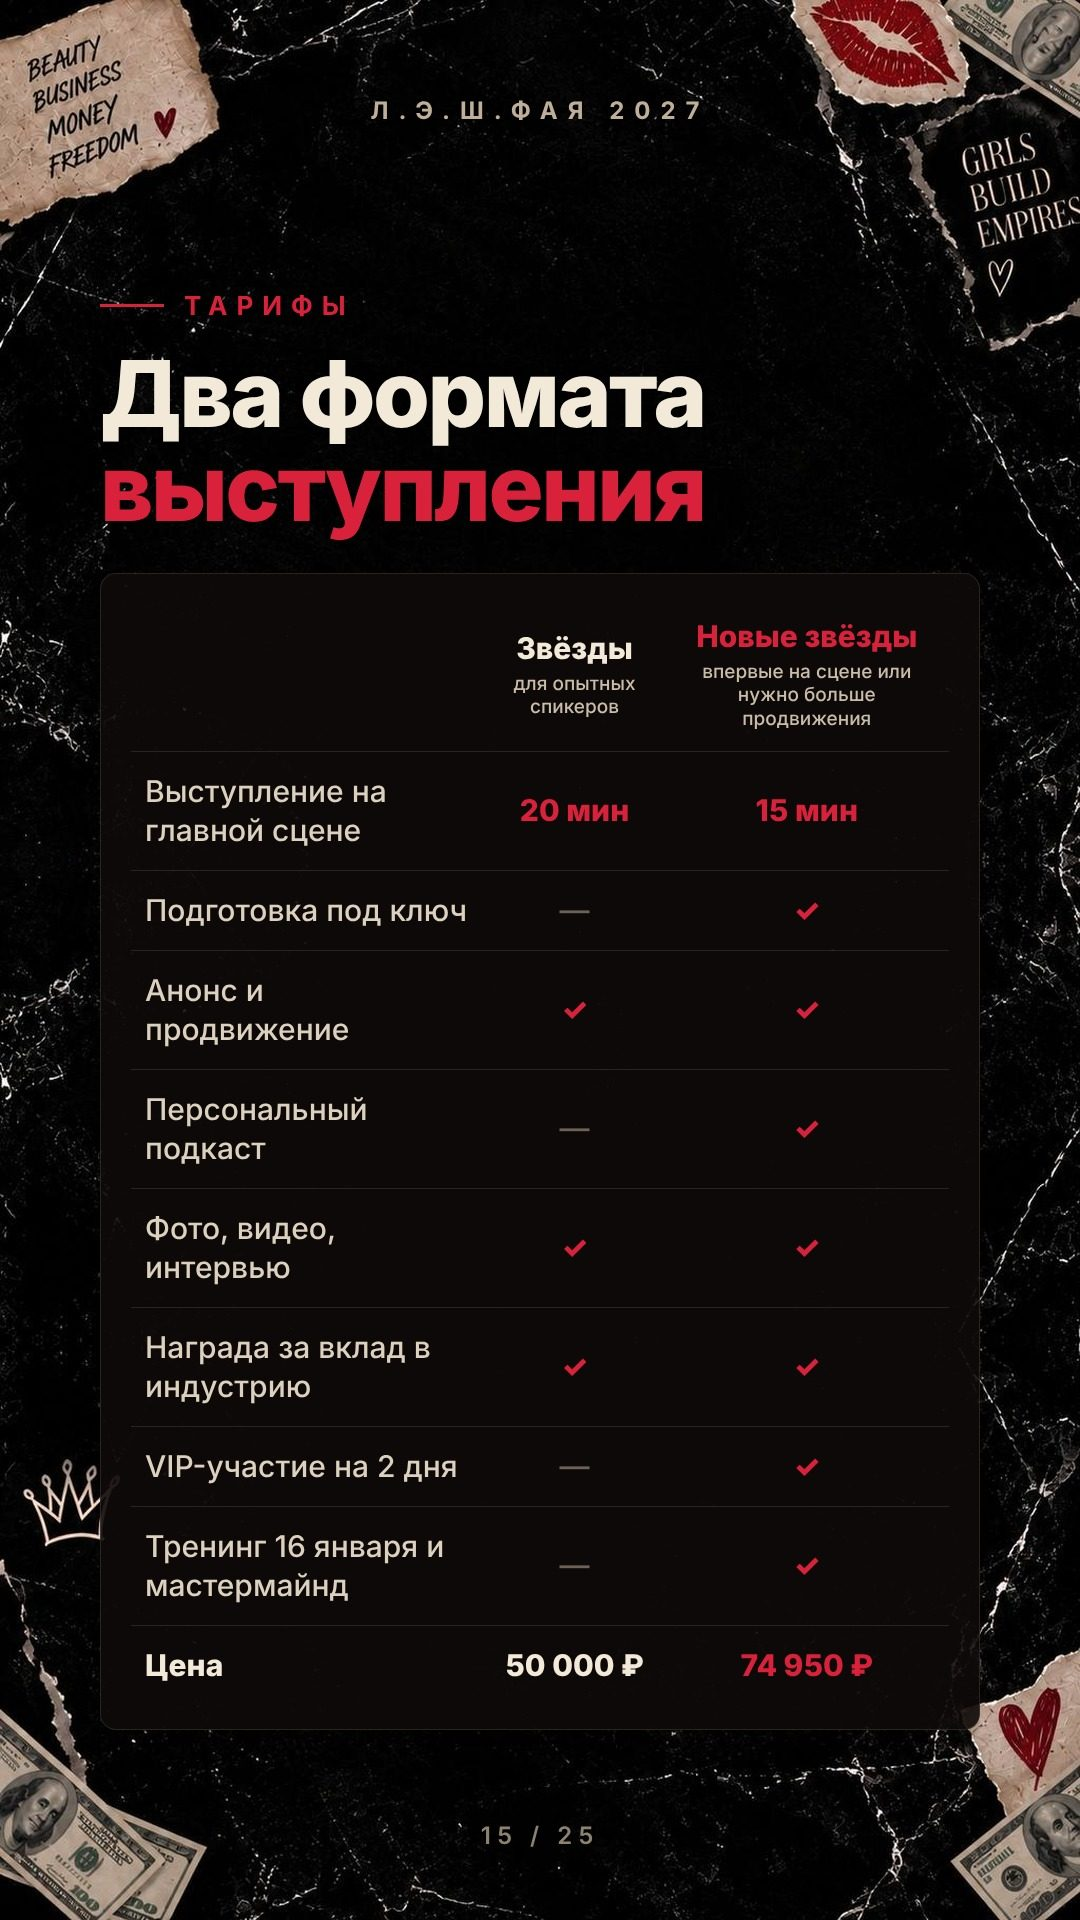
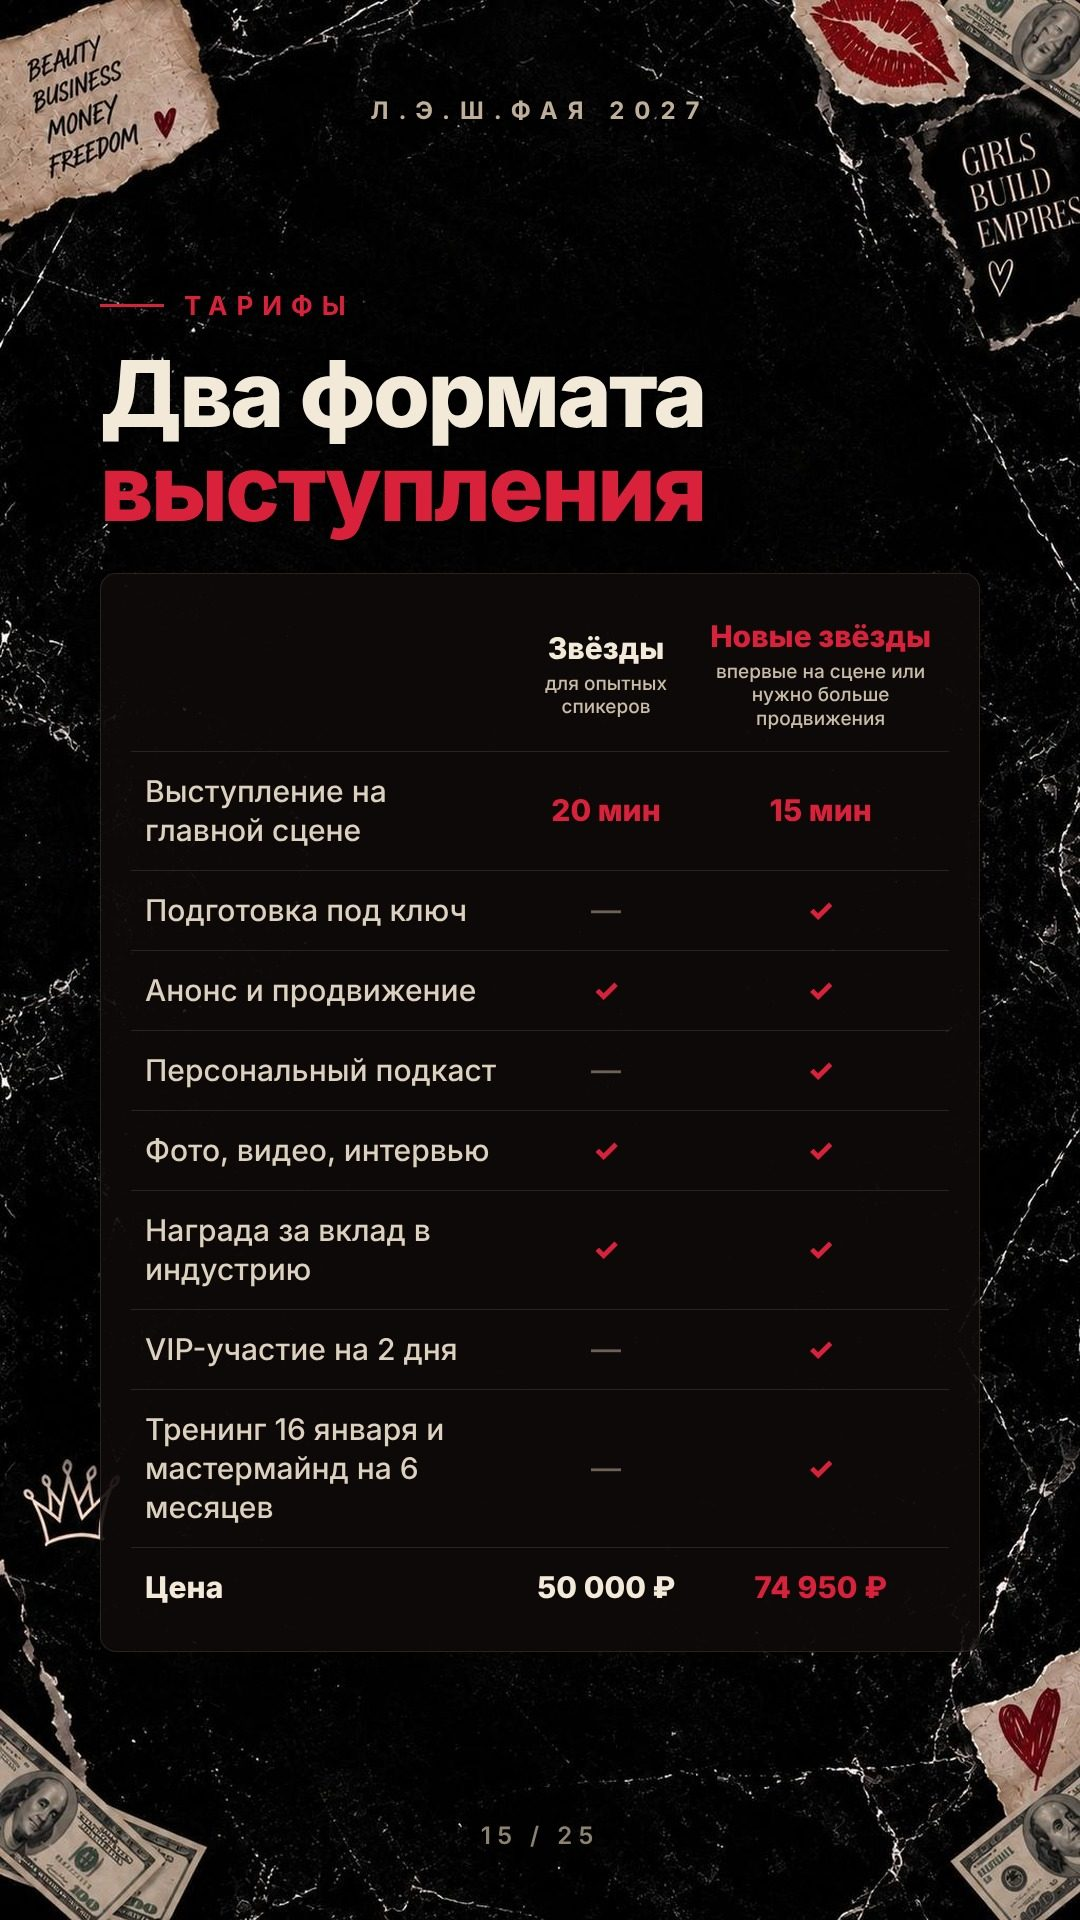
Мастермайнд на 6 месяцев в таблице
Claude-Session: https://claude.ai/code/session_01KxHKsqFZP9q9nJcN93KArK

diff --git a/index.html b/index.html
@@ -6,7 +6,7 @@
 <meta name="description" content="Стань новой звездой лэш-индустрии на крупнейшей в мире конференции по ресницам. ЛэшФая 2027, 14–15 января, Москва.">
 <meta property="og:title" content="ЛэшФая 2027 — предложение для спикеров">
 <meta property="og:description" content="Стань новой звездой лэш-индустрии. 14–15 января 2027, Москва.">
-<meta property="og:image" content="https://speaker-lash.vercel.app/og.jpg?v=1794491438">
+<meta property="og:image" content="https://speaker-lash.vercel.app/og.jpg?v=1794491518">
 <meta property="og:url" content="https://speaker-lash.vercel.app/">
 <meta property="og:type" content="website">
 <meta name="theme-color" content="#050404">
@@ -25,33 +25,33 @@ html{scroll-behavior:smooth}
 .ig{display:block;margin:0 16px 20px;padding:16px;border:1px solid rgba(243,233,216,.35);border-radius:14px;color:#F3E9D8;text-align:center;font:600 16px/1.2 -apple-system,Inter,Arial,sans-serif;text-decoration:none;background:#0e0a09}
 </style></head>
 <body><main>
-<a class="first" href="#s2"><img src="s/sp_01.jpg?v=1794491438" width="1080" height="1920" alt="Слайд 1"><span class="hint">Листайте вниз<i>↓</i></span></a>
-<span id="s2"></span><img src="s/sp_02.jpg?v=1794491438" width="1080" height="1920" alt="Слайд 2">
-<img src="s/sp_03.jpg?v=1794491438" width="1080" height="1920" alt="Слайд 3" loading="lazy">
-<img src="s/sp_04.jpg?v=1794491438" width="1080" height="1920" alt="Слайд 4" loading="lazy">
-<img src="s/sp_05.jpg?v=1794491438" width="1080" height="1920" alt="Слайд 5" loading="lazy">
+<a class="first" href="#s2"><img src="s/sp_01.jpg?v=1794491518" width="1080" height="1920" alt="Слайд 1"><span class="hint">Листайте вниз<i>↓</i></span></a>
+<span id="s2"></span><img src="s/sp_02.jpg?v=1794491518" width="1080" height="1920" alt="Слайд 2">
+<img src="s/sp_03.jpg?v=1794491518" width="1080" height="1920" alt="Слайд 3" loading="lazy">
+<img src="s/sp_04.jpg?v=1794491518" width="1080" height="1920" alt="Слайд 4" loading="lazy">
+<img src="s/sp_05.jpg?v=1794491518" width="1080" height="1920" alt="Слайд 5" loading="lazy">
 <a class="ig" href="https://www.instagram.com/lashfire_world/" target="_blank" rel="noopener">Открыть @lashfire_world в Instagram →</a>
-<img src="s/sp_06.jpg?v=1794491438" width="1080" height="1920" alt="Слайд 6" loading="lazy">
-<img src="s/sp_07.jpg?v=1794491438" width="1080" height="1920" alt="Слайд 7" loading="lazy">
-<img src="s/sp_08.jpg?v=1794491438" width="1080" height="1920" alt="Слайд 8" loading="lazy">
-<img src="s/sp_09.jpg?v=1794491438" width="1080" height="1920" alt="Слайд 9" loading="lazy">
-<img src="s/sp_10.jpg?v=1794491438" width="1080" height="1920" alt="Слайд 10" loading="lazy">
-<img src="s/sp_11.jpg?v=1794491438" width="1080" height="1920" alt="Слайд 11" loading="lazy">
-<img src="s/sp_12.jpg?v=1794491438" width="1080" height="1920" alt="Слайд 12" loading="lazy">
-<img src="s/sp_13.jpg?v=1794491438" width="1080" height="1920" alt="Слайд 13" loading="lazy">
-<img src="s/sp_14.jpg?v=1794491438" width="1080" height="1920" alt="Слайд 14" loading="lazy">
+<img src="s/sp_06.jpg?v=1794491518" width="1080" height="1920" alt="Слайд 6" loading="lazy">
+<img src="s/sp_07.jpg?v=1794491518" width="1080" height="1920" alt="Слайд 7" loading="lazy">
+<img src="s/sp_08.jpg?v=1794491518" width="1080" height="1920" alt="Слайд 8" loading="lazy">
+<img src="s/sp_09.jpg?v=1794491518" width="1080" height="1920" alt="Слайд 9" loading="lazy">
+<img src="s/sp_10.jpg?v=1794491518" width="1080" height="1920" alt="Слайд 10" loading="lazy">
+<img src="s/sp_11.jpg?v=1794491518" width="1080" height="1920" alt="Слайд 11" loading="lazy">
+<img src="s/sp_12.jpg?v=1794491518" width="1080" height="1920" alt="Слайд 12" loading="lazy">
+<img src="s/sp_13.jpg?v=1794491518" width="1080" height="1920" alt="Слайд 13" loading="lazy">
+<img src="s/sp_14.jpg?v=1794491518" width="1080" height="1920" alt="Слайд 14" loading="lazy">
 <a class="ig" href="https://www.instagram.com/lashfire_world/" target="_blank" rel="noopener">Открыть @lashfire_world в Instagram →</a>
-<img src="s/sp_15.jpg?v=1794491438" width="1080" height="1920" alt="Слайд 15" loading="lazy">
-<img src="s/sp_16.jpg?v=1794491438" width="1080" height="1920" alt="Слайд 16" loading="lazy">
-<img src="s/sp_17.jpg?v=1794491438" width="1080" height="1920" alt="Слайд 17" loading="lazy">
-<img src="s/sp_18.jpg?v=1794491438" width="1080" height="1920" alt="Слайд 18" loading="lazy">
-<img src="s/sp_19.jpg?v=1794491438" width="1080" height="1920" alt="Слайд 19" loading="lazy">
-<img src="s/sp_20.jpg?v=1794491438" width="1080" height="1920" alt="Слайд 20" loading="lazy">
-<img src="s/sp_21.jpg?v=1794491438" width="1080" height="1920" alt="Слайд 21" loading="lazy">
-<img src="s/sp_22.jpg?v=1794491438" width="1080" height="1920" alt="Слайд 22" loading="lazy">
-<img src="s/sp_23.jpg?v=1794491438" width="1080" height="1920" alt="Слайд 23" loading="lazy">
-<img src="s/sp_24.jpg?v=1794491438" width="1080" height="1920" alt="Слайд 24" loading="lazy">
-<img src="s/sp_25.jpg?v=1794491438" width="1080" height="1920" alt="Слайд 25" loading="lazy">
+<img src="s/sp_15.jpg?v=1794491518" width="1080" height="1920" alt="Слайд 15" loading="lazy">
+<img src="s/sp_16.jpg?v=1794491518" width="1080" height="1920" alt="Слайд 16" loading="lazy">
+<img src="s/sp_17.jpg?v=1794491518" width="1080" height="1920" alt="Слайд 17" loading="lazy">
+<img src="s/sp_18.jpg?v=1794491518" width="1080" height="1920" alt="Слайд 18" loading="lazy">
+<img src="s/sp_19.jpg?v=1794491518" width="1080" height="1920" alt="Слайд 19" loading="lazy">
+<img src="s/sp_20.jpg?v=1794491518" width="1080" height="1920" alt="Слайд 20" loading="lazy">
+<img src="s/sp_21.jpg?v=1794491518" width="1080" height="1920" alt="Слайд 21" loading="lazy">
+<img src="s/sp_22.jpg?v=1794491518" width="1080" height="1920" alt="Слайд 22" loading="lazy">
+<img src="s/sp_23.jpg?v=1794491518" width="1080" height="1920" alt="Слайд 23" loading="lazy">
+<img src="s/sp_24.jpg?v=1794491518" width="1080" height="1920" alt="Слайд 24" loading="lazy">
+<img src="s/sp_25.jpg?v=1794491518" width="1080" height="1920" alt="Слайд 25" loading="lazy">
 <a class="ig" style="margin-top:24px" href="https://www.instagram.com/lashfire_world/" target="_blank" rel="noopener">Страница конференции: @lashfire_world →</a>
 <a class="cta" style="margin-top:12px" href="tel:+79234444906">Позвонить Дмитрию: +7 923 444-49-06</a>
 </main></body></html>
